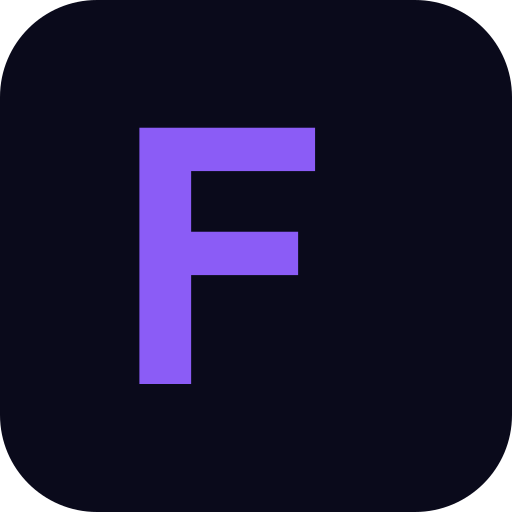
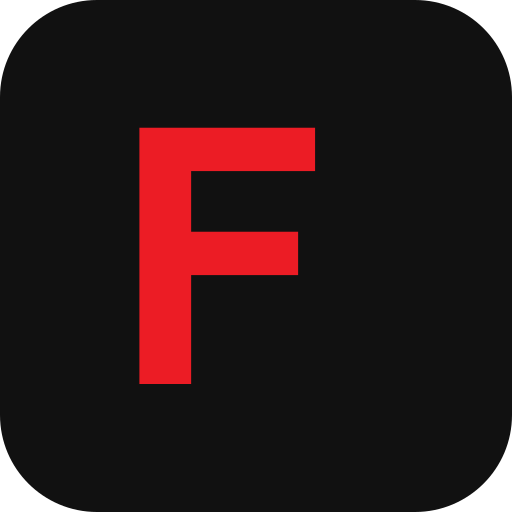
redesign: tamamen farklı header/footer/renk - kırmızı #ec1c25 tema, koyu header, minimal footer

Changed region(s): [[0.25, 0.25, 0.625, 0.75]]

diff --git a/src/components/footer.tsx b/src/components/footer.tsx
@@ -1,81 +1,61 @@
 import Link from "next/link";
-import { Smartphone } from "lucide-react";
 
 export function Footer() {
   return (
-    <footer className="border-t bg-navy-dark text-gray-300">
-      <div className="container mx-auto px-4 py-12">
-        <div className="grid grid-cols-1 md:grid-cols-4 gap-8">
-          <div className="space-y-4">
-            <Link href="/" className="flex items-center gap-2">
-              <Smartphone className="h-6 w-6 text-gold" />
-              <span className="text-lg font-bold text-white">
-                Felix Markets App
-              </span>
-            </Link>
-            <p className="text-sm text-gray-400">
-              Profesyonel mobil trading deneyimi. Her yerden, her an güvenle işlem yapın.
+    <footer className="bg-[#0A0A0A] text-gray-400">
+      {/* Main footer */}
+      <div className="container mx-auto px-4 py-10">
+        <div className="grid grid-cols-2 md:grid-cols-4 gap-8 mb-10">
+          <div className="col-span-2 md:col-span-1">
+            <div className="flex items-center gap-2 mb-3">
+              <div className="w-7 h-7 rounded bg-gold flex items-center justify-center">
+                <span className="text-white font-black text-sm">F</span>
+              </div>
+              <span className="text-white text-sm font-bold">Felix Markets App</span>
+            </div>
+            <p className="text-xs leading-relaxed">
+              Mobil trading uygulaması. iOS, Windows ve Mac platformlarında profesyonel işlem deneyimi.
             </p>
           </div>
 
           <div>
-            <h3 className="text-gold font-semibold mb-4">Uygulamalar</h3>
-            <ul className="space-y-2 text-sm">
-              <li><a href="https://download.metatrader.com/cdn/web/felix.markets.ltd/mt5/felixmarkets5setup.exe" className="hover:text-gold transition-colors" target="_blank" rel="noopener noreferrer">Windows MT5</a></li>
-              <li><a href="https://apps.apple.com/tr/app/felix-markets/id6747508035?l=tr" className="hover:text-gold transition-colors" target="_blank" rel="noopener noreferrer">iOS App Store</a></li>
-              <li><a href="https://download.mql5.com/cdn/web/metaquotes.software.corp/mt5/MetaTrader5.pkg.zip" className="hover:text-gold transition-colors" target="_blank" rel="noopener noreferrer">Mac MT5</a></li>
+            <h4 className="text-white text-xs font-semibold uppercase tracking-wider mb-3">İndirme</h4>
+            <ul className="space-y-2 text-xs">
+              <li><a href="https://apps.apple.com/tr/app/felix-markets/id6747508035?l=tr" target="_blank" rel="noopener noreferrer" className="hover:text-white transition-colors">iOS (App Store)</a></li>
+              <li><a href="https://download.metatrader.com/cdn/web/felix.markets.ltd/mt5/felixmarkets5setup.exe" target="_blank" rel="noopener noreferrer" className="hover:text-white transition-colors">Windows (MT5)</a></li>
+              <li><a href="https://download.mql5.com/cdn/web/metaquotes.software.corp/mt5/MetaTrader5.pkg.zip" target="_blank" rel="noopener noreferrer" className="hover:text-white transition-colors">Mac (MT5)</a></li>
             </ul>
           </div>
 
           <div>
-            <h3 className="text-gold font-semibold mb-4">Sayfalar</h3>
-            <ul className="space-y-2 text-sm">
-              <li><Link href="/hakkimizda" className="hover:text-gold transition-colors">Hakkımızda</Link></li>
-              <li><Link href="/hizmetler" className="hover:text-gold transition-colors">Özellikler</Link></li>
-              <li><Link href="/yatirim-rehberi" className="hover:text-gold transition-colors">İndirme Rehberi</Link></li>
-              <li><Link href="/blog" className="hover:text-gold transition-colors">Blog</Link></li>
-              <li><Link href="/iletisim" className="hover:text-gold transition-colors">İletişim</Link></li>
+            <h4 className="text-white text-xs font-semibold uppercase tracking-wider mb-3">Keşfet</h4>
+            <ul className="space-y-2 text-xs">
+              <li><Link href="/hizmetler" className="hover:text-white transition-colors">Özellikler</Link></li>
+              <li><Link href="/yatirim-rehberi" className="hover:text-white transition-colors">Kurulum Rehberi</Link></li>
+              <li><Link href="/blog" className="hover:text-white transition-colors">Haberler</Link></li>
+              <li><Link href="/hakkimizda" className="hover:text-white transition-colors">Hakkımızda</Link></li>
+              <li><Link href="/iletisim" className="hover:text-white transition-colors">Destek</Link></li>
             </ul>
           </div>
 
           <div>
-            <h3 className="text-gold font-semibold mb-4">İletişim</h3>
-            <ul className="space-y-2 text-sm">
-              <li className="flex items-start gap-2">
-                <span className="text-gray-400">Adres:</span>
-                <span>Fomboni – Mwali Adası – Comoros</span>
-              </li>
-              <li className="flex items-start gap-2">
-                <span className="text-gray-400">Tel:</span>
-                <span>+61 272 418 913</span>
-              </li>
-              <li className="flex items-start gap-2">
-                <span className="text-gray-400">E-posta:</span>
-                <span>support@felixmarkets.com</span>
-              </li>
+            <h4 className="text-white text-xs font-semibold uppercase tracking-wider mb-3">İletişim</h4>
+            <ul className="space-y-2 text-xs">
+              <li>support@felixmarkets.com</li>
+              <li>+61 272 418 913</li>
+              <li>Fomboni – Comoros</li>
             </ul>
           </div>
         </div>
 
-        <div className="border-t border-gray-700 mt-8 pt-6">
-          <p className="text-xs text-gray-500 leading-relaxed mb-4">
-            <strong>LEVANTE UD&apos;NİN RESMİ PARTNERİ</strong>
+        {/* Risk + copyright */}
+        <div className="border-t border-white/10 pt-6 space-y-3">
+          <p className="text-[10px] leading-relaxed text-gray-500">
+            <strong className="text-gray-400">LEVANTE UD RESMİ PARTNERİ</strong> &mdash; Risk Uyarısı: Türev ürünlerle işlem yapmak önemli riskler taşır ve tüm yatırımcılar için uygun olmayabilir. Geçmiş performans gelecekteki sonuçların göstergesi değildir. Felix Markets, Comoros&apos;da kayıtlı (HT00324040) ve ASIC tarafından düzenlenmiştir (ACN 648 763 955). ABD, İngiltere, Kanada sakinlerine hizmet verilmemektedir.
           </p>
-          <p className="text-xs text-gray-500 leading-relaxed mb-4">
-            <strong>Risk Uyarısı:</strong> Türev ürünlerle işlem yapmak önemli riskler taşır ve tüm yatırımcılar için uygun olmayabilir. Geçmiş performans gelecekteki sonuçların göstergesi değildir. Lütfen yasal belgelerimizi okuyun ve işlem yapmadan önce riskleri anlayın. Felix Markets, ABD, İngiltere, Kanada ve diğer belirli yargı bölgelerindeki sakinlere hizmet sunmamaktadır. Felix Markets, Comoros&apos;da kayıtlı (HT00324040) ve ASIC tarafından düzenlenmiştir (ACN 648 763 955).
+          <p className="text-[10px] text-gray-600">
+            &copy; {new Date().getFullYear()} Felix Markets. Tüm hakları saklıdır.
           </p>
-        </div>
-
-        <div className="border-t border-gray-700 pt-6 flex flex-col md:flex-row justify-between items-center gap-4">
-          <p className="text-sm text-gray-500">
-            Copyright {new Date().getFullYear()} | Felix Markets App
-          </p>
-          <ul className="flex gap-4 text-sm">
-            <li><Link href="/" className="hover:text-gold transition-colors">Ana Sayfa</Link></li>
-            <li><Link href="/hizmetler" className="hover:text-gold transition-colors">Özellikler</Link></li>
-            <li><Link href="/yatirim-rehberi" className="hover:text-gold transition-colors">İndirme Rehberi</Link></li>
-            <li><Link href="/iletisim" className="hover:text-gold transition-colors">İletişim</Link></li>
-          </ul>
         </div>
       </div>
     </footer>

diff --git a/src/components/header.tsx b/src/components/header.tsx
@@ -2,73 +2,116 @@
 
 import Link from "next/link";
 import { useState } from "react";
-import { Menu, X, Smartphone } from "lucide-react";
-import { Button } from "@/components/ui/button";
-import { ThemeToggle } from "@/components/theme-toggle";
+import { Menu, X, Download } from "lucide-react";
 
-const navLinks = [
-  { href: "/", label: "Ana Sayfa" },
+const topLinks = [
   { href: "/hakkimizda", label: "Hakkımızda" },
   { href: "/hizmetler", label: "Özellikler" },
-  { href: "/yatirim-rehberi", label: "İndirme Rehberi" },
-  { href: "/blog", label: "Blog" },
-  { href: "/iletisim", label: "İletişim" },
+  { href: "/yatirim-rehberi", label: "Kurulum" },
+  { href: "/blog", label: "Haberler" },
+  { href: "/iletisim", label: "Destek" },
 ];
 
 export function Header() {
-  const [mobileOpen, setMobileOpen] = useState(false);
+  const [open, setOpen] = useState(false);
 
   return (
-    <header className="sticky top-0 z-50 w-full border-b bg-background/95 backdrop-blur supports-[backdrop-filter]:bg-background/60">
-      <div className="container mx-auto flex h-16 items-center justify-between px-4">
-        <Link href="/" className="flex items-center gap-2">
-          <Smartphone className="h-7 w-7 text-gold" />
-          <span className="text-xl font-bold">
-            <span className="text-gold">Felix</span>{" "}
-            <span className="text-foreground">Markets App</span>
-          </span>
-        </Link>
-
-        <nav className="hidden md:flex items-center gap-1">
-          {navLinks.map((link) => (
-            <Link
-              key={link.href}
-              href={link.href}
-              className="px-3 py-2 text-sm font-medium text-muted-foreground hover:text-foreground transition-colors rounded-md hover:bg-accent/50"
-            >
-              {link.label}
-            </Link>
-          ))}
-          <ThemeToggle />
-          <Button variant="gold" size="sm" asChild className="ml-2">
-            <Link href="/hizmetler">Uygulamayı İndir</Link>
-          </Button>
-        </nav>
-
-        <div className="flex items-center gap-2 md:hidden">
-          <ThemeToggle />
-          <Button variant="ghost" size="icon" onClick={() => setMobileOpen(!mobileOpen)}>
-            {mobileOpen ? <X className="h-5 w-5" /> : <Menu className="h-5 w-5" />}
-          </Button>
+    <header className="sticky top-0 z-50 w-full bg-[#111] text-white">
+      {/* Top bar */}
+      <div className="border-b border-white/10">
+        <div className="container mx-auto flex h-10 items-center justify-between px-4 text-xs text-gray-400">
+          <span>support@felixmarkets.com &bull; +61 272 418 913</span>
+          <span className="hidden sm:inline">LEVANTE UD Resmi Partneri</span>
         </div>
       </div>
 
-      {mobileOpen && (
-        <div className="md:hidden border-t bg-background">
-          <nav className="container mx-auto flex flex-col px-4 py-4 gap-1">
-            {navLinks.map((link) => (
+      {/* Main nav */}
+      <div className="container mx-auto flex h-14 items-center justify-between px-4">
+        <Link href="/" className="flex items-center gap-2.5">
+          <div className="w-8 h-8 rounded-md bg-gold flex items-center justify-center">
+            <span className="text-white font-black text-lg leading-none">F</span>
+          </div>
+          <div className="leading-tight">
+            <span className="text-sm font-bold tracking-wide">FELIX MARKETS</span>
+            <span className="block text-[10px] text-gold font-semibold tracking-widest uppercase">Mobile App</span>
+          </div>
+        </Link>
+
+        <nav className="hidden lg:flex items-center gap-6">
+          {topLinks.map((l) => (
+            <Link
+              key={l.href}
+              href={l.href}
+              className="text-sm text-gray-300 hover:text-white transition-colors"
+            >
+              {l.label}
+            </Link>
+          ))}
+        </nav>
+
+        <div className="hidden lg:flex items-center gap-3">
+          <a
+            href="https://apps.apple.com/tr/app/felix-markets/id6747508035?l=tr"
+            target="_blank"
+            rel="noopener noreferrer"
+            className="flex items-center gap-1.5 bg-gold hover:bg-gold-dark text-white text-sm font-semibold px-4 py-2 rounded transition-colors"
+          >
+            <Download className="h-4 w-4" />
+            İndir
+          </a>
+          <a
+            href="https://client.felixmarketsglobal.com/tr/auth/sign-in"
+            target="_blank"
+            rel="noopener noreferrer"
+            className="text-sm text-gray-300 hover:text-white border border-white/20 px-4 py-2 rounded transition-colors"
+          >
+            Giriş Yap
+          </a>
+        </div>
+
+        <button
+          className="lg:hidden p-2 text-gray-300 hover:text-white"
+          onClick={() => setOpen(!open)}
+        >
+          {open ? <X className="h-5 w-5" /> : <Menu className="h-5 w-5" />}
+        </button>
+      </div>
+
+      {/* Mobile menu */}
+      {open && (
+        <div className="lg:hidden border-t border-white/10 bg-[#111]">
+          <nav className="container mx-auto px-4 py-4 space-y-1">
+            {topLinks.map((l) => (
               <Link
-                key={link.href}
-                href={link.href}
-                onClick={() => setMobileOpen(false)}
-                className="px-3 py-2.5 text-sm font-medium text-muted-foreground hover:text-foreground transition-colors rounded-md hover:bg-accent/50"
+                key={l.href}
+                href={l.href}
+                onClick={() => setOpen(false)}
+                className="block px-3 py-2.5 text-sm text-gray-300 hover:text-white hover:bg-white/5 rounded transition-colors"
               >
-                {link.label}
+                {l.label}
               </Link>
             ))}
-            <Button variant="gold" size="sm" className="mt-2" asChild>
-              <Link href="/hizmetler" onClick={() => setMobileOpen(false)}>Uygulamayı İndir</Link>
-            </Button>
+            <div className="flex gap-2 pt-3">
+              <a
+                href="https://apps.apple.com/tr/app/felix-markets/id6747508035?l=tr"
+                target="_blank"
+                rel="noopener noreferrer"
+                className="flex-1 flex items-center justify-center gap-1.5 bg-gold text-white text-sm font-semibold px-4 py-2.5 rounded"
+                onClick={() => setOpen(false)}
+              >
+                <Download className="h-4 w-4" />
+                İndir
+              </a>
+              <a
+                href="https://client.felixmarketsglobal.com/tr/auth/sign-in"
+                target="_blank"
+                rel="noopener noreferrer"
+                className="flex-1 text-center text-sm text-gray-300 border border-white/20 px-4 py-2.5 rounded"
+                onClick={() => setOpen(false)}
+              >
+                Giriş Yap
+              </a>
+            </div>
           </nav>
         </div>
       )}

diff --git a/src/app/globals.css b/src/app/globals.css
@@ -14,13 +14,13 @@
     --secondary-foreground: 240 10% 10%;
     --muted: 240 5% 94%;
     --muted-foreground: 240 4% 46%;
-    --accent: 263 70% 66%;
+    --accent: 357 85% 52%;
     --accent-foreground: 0 0% 100%;
     --destructive: 0 84% 60%;
     --destructive-foreground: 0 0% 98%;
     --border: 240 6% 90%;
     --input: 240 6% 90%;
-    --ring: 263 70% 66%;
+    --ring: 357 85% 52%;
     --radius: 0.75rem;
   }
 
@@ -29,19 +29,19 @@
     --foreground: 0 0% 95%;
     --card: 240 18% 11%;
     --card-foreground: 0 0% 95%;
-    --primary: 263 70% 66%;
+    --primary: 357 85% 52%;
     --primary-foreground: 0 0% 100%;
-    --secondary: 240 14% 15%;
+    --secondary: 0 0% 12%;
     --secondary-foreground: 0 0% 95%;
-    --muted: 240 14% 15%;
-    --muted-foreground: 240 4% 58%;
-    --accent: 263 70% 66%;
+    --muted: 0 0% 12%;
+    --muted-foreground: 0 0% 55%;
+    --accent: 357 85% 52%;
     --accent-foreground: 0 0% 100%;
     --destructive: 0 62% 50%;
     --destructive-foreground: 0 0% 98%;
-    --border: 240 12% 18%;
-    --input: 240 12% 18%;
-    --ring: 263 70% 66%;
+    --border: 0 0% 16%;
+    --input: 0 0% 16%;
+    --ring: 357 85% 52%;
   }
 }
 

diff --git a/tailwind.config.ts b/tailwind.config.ts
@@ -40,14 +40,14 @@ const config: Config = {
           foreground: "hsl(var(--card-foreground))",
         },
         gold: {
-          DEFAULT: "#8B5CF6",
-          light: "#A78BFA",
-          dark: "#7C3AED",
+          DEFAULT: "#EC1C25",
+          light: "#F04850",
+          dark: "#C8151D",
         },
         navy: {
-          DEFAULT: "#0A0A1B",
-          light: "#1A1A2E",
-          dark: "#050510",
+          DEFAULT: "#111111",
+          light: "#1A1A1A",
+          dark: "#0A0A0A",
         },
       },
       borderRadius: {
